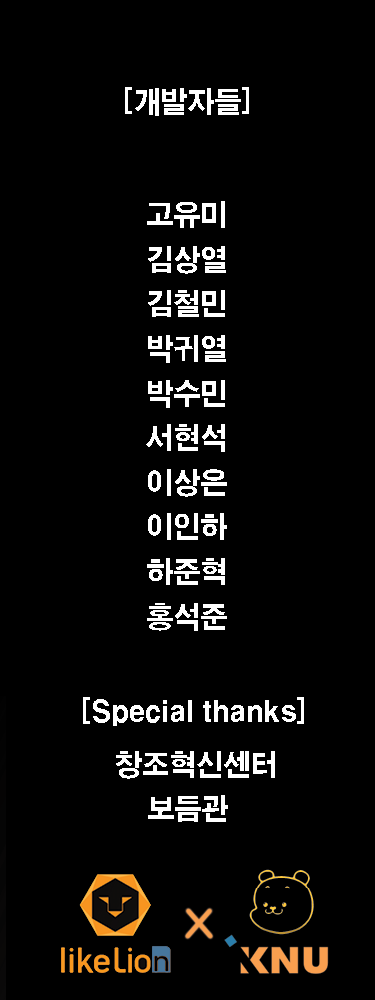
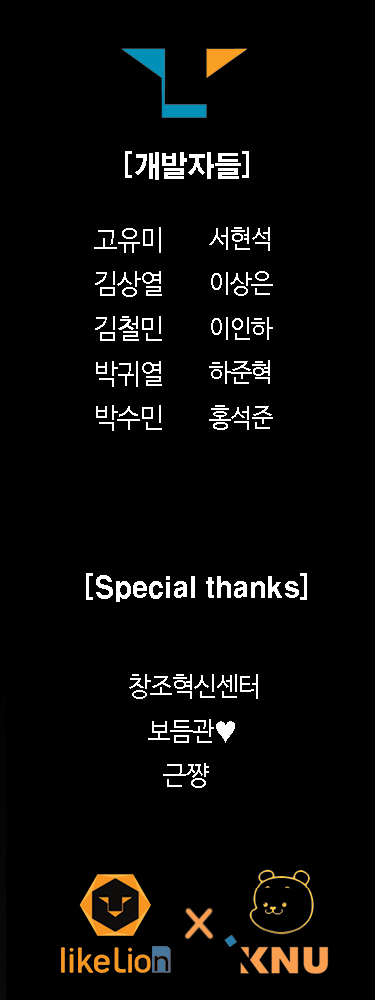
준혁인하

Changed region(s): [[0.2053, 0.155, 0.8213, 0.837], [0.3227, 0.031, 0.6747, 0.124], [0.7627, 0.682, 0.8213, 0.744]]

diff --git a/app/assets/stylesheets/homes.scss b/app/assets/stylesheets/homes.scss
@@ -8,20 +8,22 @@
 @import url(//fonts.googleapis.com/earlyaccess/hanna.css); .hanna * { font-family: 'Hanna', fantasy; }
 @font-face { font-family: 'Swagger'; src: url('https://cdn.jsdelivr.net/gh/projectnoonnu/noonfonts_two@1.0/Swagger.woff') format('woff'); font-weight: normal; font-style: normal; }
 @font-face { font-family: 'BMDOHYEON'; src: url('https://cdn.jsdelivr.net/gh/projectnoonnu/noonfonts_one@1.0/BMDOHYEON.woff') format('woff'); font-weight: normal; font-style: normal; }
-
+@font-face { font-family: 'InkLipquid'; src: url('https://cdn.jsdelivr.net/gh/projectnoonnu/noonfonts_one@1.0/InkLipquid.woff') format('woff'); font-weight: normal; font-style: normal; }
 
 
 // 라인 업 폰트
 
 // 라인 업 폰트
 .line_up{
+    margin-right:42px;
+    color:rgba(0,162,255,1);
     font-family: 'TmonMonsori';
-    font-size: 25px;
+    font-size: 45px;
     font-weight: bold;
-    background-color: white;
+    background-color: rgba(0,0,0,0);
     margin-bottom: 0px;
     position: sticky;
-    top: 0;
+    top: 50px;
     
     text-align: center;
     
@@ -182,7 +184,7 @@
 }
 .map-section{
     background: white;
-    margin-top: 45%;
+    margin-top: 40%;
 }
 
 .map-knu{
@@ -191,11 +193,23 @@
 }
 
 .map-txt{
+    
     text-align: center;
-    font-size: 25px;
-    color: white;
-    background: gray;
-    font-family: 'HangeulNuri-Bold';
+    font-size: 40px;
+    color: black;
+    background: white;
+    font-family: 'BMDOHYEON';
+    position: sticky;
+    top: 50px;
+}
+
+.map-txt2{
+    text-align: center;
+    font-family: 'BMDOHYEON';
+    position: sticky;
+    top: 100px;
+    
+    
 }
 
 // 로고 위에 떠 있는 구름
@@ -224,8 +238,9 @@
 }
 
 .developer-title{
-    border-bottom: 2px gray solid;
+    // border-bottom: 2px gray solid;
     padding-bottom: 5px;
+    padding-top:60px;
     font-family: 'TmonMonsori'
 }
 
@@ -242,4 +257,9 @@
     text-align: center;
     z-index: 2;
     padding: 10px;
+}
+
+.developer-title2{
+    font-size: 40px;
+    font-family: 'InkLipquid';
 }

diff --git a/app/assets/stylesheets/huntings.scss b/app/assets/stylesheets/huntings.scss
@@ -52,6 +52,6 @@
 @font-face { font-family: 'Arita-buri-SemiBold'; src: url('https://cdn.jsdelivr.net/gh/projectnoonnu/noonfonts_one@1.0/Arita-buri-SemiBold.woff') format('woff'); font-weight: normal; font-style: normal; }
 
 .hunting_img {
-    width: 70px;
+    width: 150px;
     margin-top: 30px;
 }

diff --git a/app/assets/stylesheets/losts.scss b/app/assets/stylesheets/losts.scss
@@ -37,8 +37,8 @@
     border: 2px solid black;
 }
 
-.hunting_img {
-    width: 70px;
+.lost_img {
+    width: 150px;
     margin-top: 30px;
 }
 .icon{

diff --git a/app/assets/stylesheets/foods.scss b/app/assets/stylesheets/foods.scss
@@ -34,6 +34,6 @@
     float: left;
 }
 .fleamarket_logo_img {
-    width: 70px;
+    width: 150px;
     margin-top: 30px;
 }

diff --git a/app/assets/stylesheets/application.scss b/app/assets/stylesheets/application.scss
@@ -82,3 +82,7 @@ header{
   width: 100%;
   z-index: 1000;
 }
+
+body{
+    background: #FFD653!important;
+}

diff --git a/db/schema.rb b/db/schema.rb
@@ -10,7 +10,7 @@
 #
 # It's strongly recommended that you check this file into your version control system.
 
-ActiveRecord::Schema.define(version: 20180916074218) do
+ActiveRecord::Schema.define(version: 20180916052114) do
 
   create_table "comments", force: :cascade do |t|
     t.string "content"
@@ -55,32 +55,6 @@ ActiveRecord::Schema.define(version: 20180916074218) do
     t.text "pw"
     t.datetime "created_at", null: false
     t.datetime "updated_at", null: false
-  end
-
-  create_table "impressions", force: :cascade do |t|
-    t.string "impressionable_type"
-    t.integer "impressionable_id"
-    t.integer "user_id"
-    t.string "controller_name"
-    t.string "action_name"
-    t.string "view_name"
-    t.string "request_hash"
-    t.string "ip_address"
-    t.string "session_hash"
-    t.text "message"
-    t.text "referrer"
-    t.text "params"
-    t.datetime "created_at", null: false
-    t.datetime "updated_at", null: false
-    t.index ["controller_name", "action_name", "ip_address"], name: "controlleraction_ip_index"
-    t.index ["controller_name", "action_name", "request_hash"], name: "controlleraction_request_index"
-    t.index ["controller_name", "action_name", "session_hash"], name: "controlleraction_session_index"
-    t.index ["impressionable_type", "impressionable_id", "ip_address"], name: "poly_ip_index"
-    t.index ["impressionable_type", "impressionable_id", "params"], name: "poly_params_request_index"
-    t.index ["impressionable_type", "impressionable_id", "request_hash"], name: "poly_request_index"
-    t.index ["impressionable_type", "impressionable_id", "session_hash"], name: "poly_session_index"
-    t.index ["impressionable_type", "message", "impressionable_id"], name: "impressionable_type_message_index"
-    t.index ["user_id"], name: "index_impressions_on_user_id"
   end
 
   create_table "losts", force: :cascade do |t|
